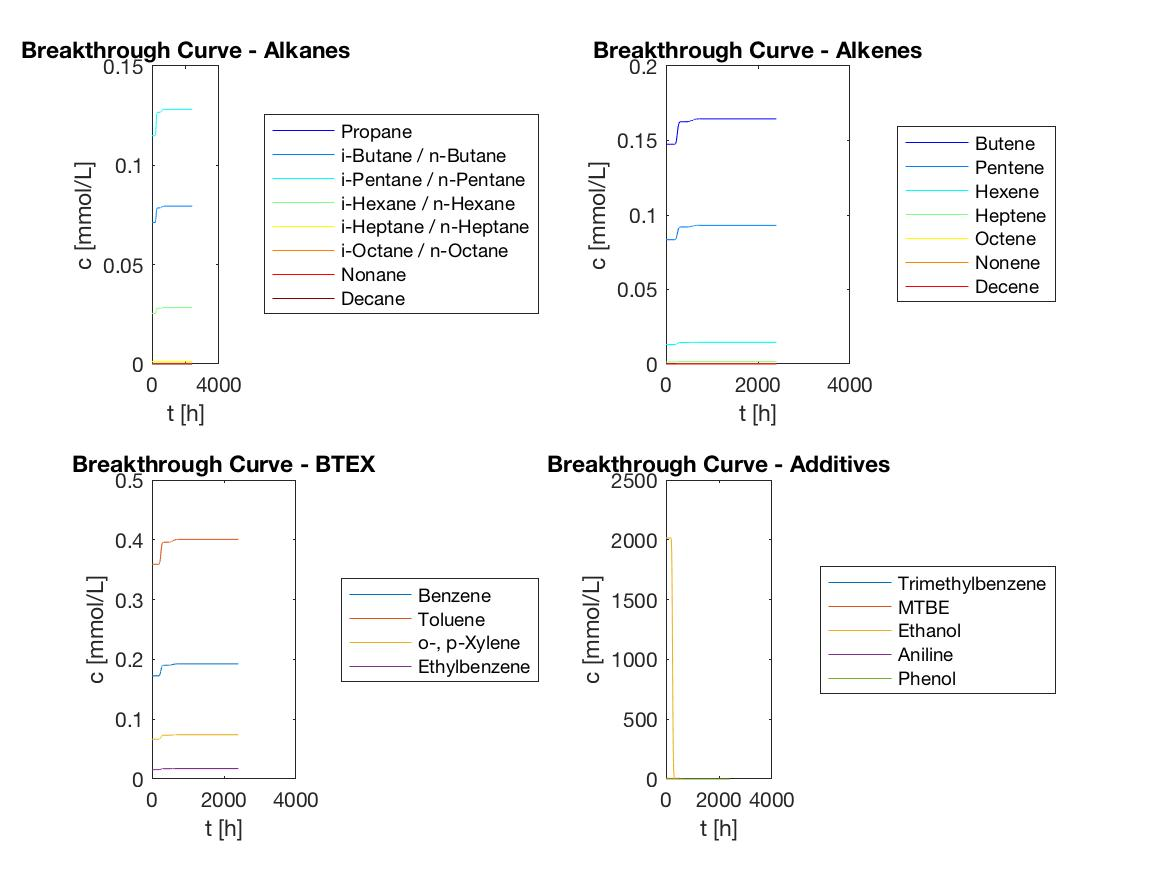
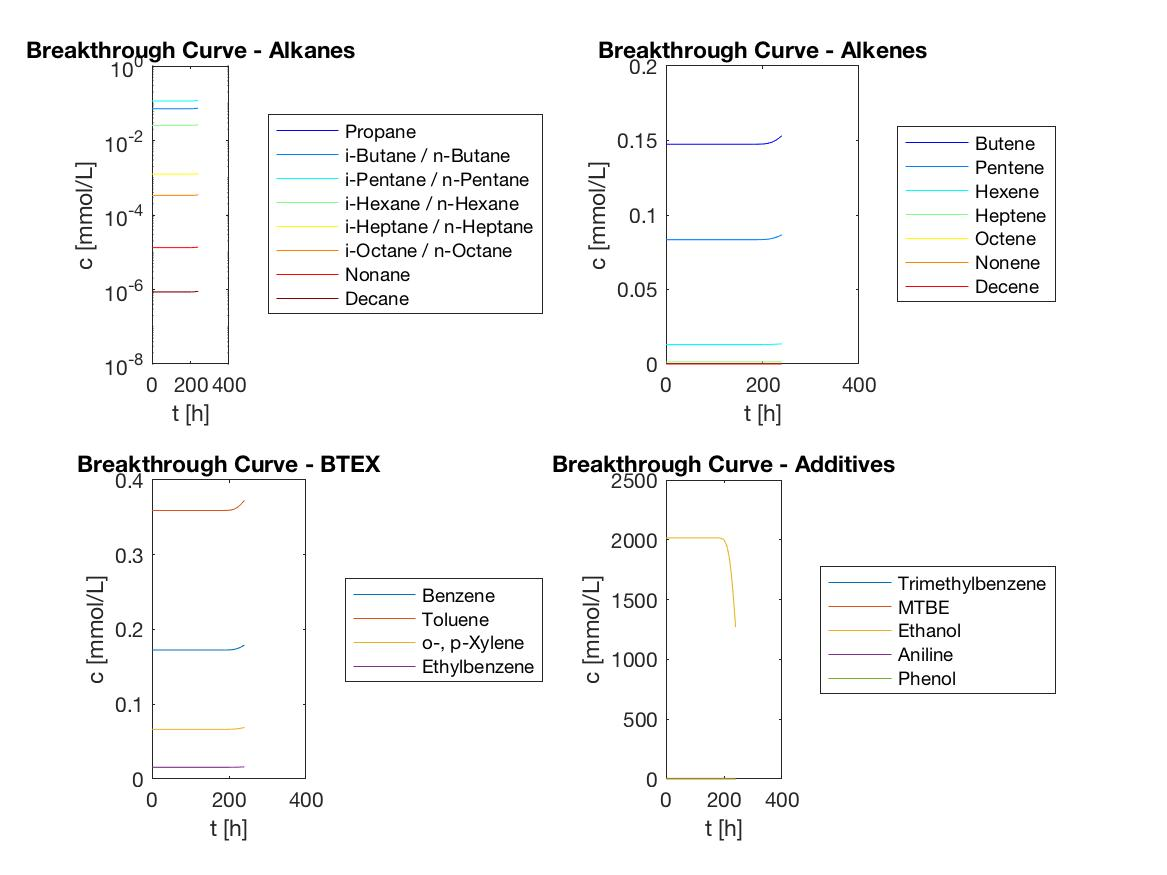
Updates - Oxygen
Readding oxygen to c_aq

Sped up the plotting using counter

diff --git a/BTEX_model.m b/BTEX_model.m
@@ -21,7 +21,7 @@ alpha = 0.01;       % Longitudinal Dispersivity [m]
 Dp = 1e-9;          % pore diffusion coefficient [m2/s] -- assumed
 
 tin = 0;            % begin time [s]
-te = 3600*(1*500);  % end time [s]
+te = 3600*(1*240);  % end time [s]
 
 % Derived Coefficients
 A = H*W;            % area [m2]
@@ -52,14 +52,14 @@ ncomp = 25;
 % Matrix of Initial NAPL moles - Compound
 % Rows related to length coordinates
 % Columns related to components
-n = wt*m_tot./(MW*nx);   % moles of each compound in initial mixture [mol] per cell
-Xo = n./sum(n);          % molar fraction [-]
-n_napl = repmat(n,nx,1); % moles of each compound over whole domain
+n = wt*m_tot./(MW*nx);      % moles of each compound in initial mixture [mol] per cell
+Xo = n./sum(n);             % molar fraction [-]
+n_napl = repmat(n,nx,1);    % moles of each compound over whole domain
 
 % Matrix of Aqueous Concentrations - Compound and Oxygen
 c_aq_i = [Xo.*Si,0];         % initial water conc. at equilibrium  [mol/m3]
-c_aq = repmat(c_aq_i,nx,1);
-c_aq_i = c_aq;
+c_aq = repmat(c_aq_i,nx,1);  % water conc over entire domain
+c_aq_i = c_aq;               % set initial water conc as matrix over domain
 
 % Matrix of Inflow Concentrations - Compound and Oxygen 
 % Columns related to components
@@ -76,6 +76,7 @@ figure(1);clf
 % v = VideoWriter('transport_model.avi');
 % open(v);
 
+ctr=1;
 % =========================================================================
 % Loop over all timepoints
 % =========================================================================
@@ -111,26 +112,27 @@ for t=dt:dt:te
     % =====================================================================
     % EQUILIBRATION
     % =====================================================================
-    [c_aq(:,1:24),n_napl] = equilibrate(c_aq(:,1:24), n_napl, poros, Si, rho, MW, dx , A);
+    [c_aq(:,1:24),n_napl] = equilibrate(c_aq(:,1:24), n_napl, poros, Si, rho, MW, dx, A);
     % =====================================================================
     % GRAPHICAL OUTPUT
     % =====================================================================
    
     % Graphical output every 10 minutes
-    figure(1)
-    plot(x,c_aq./c_aq_i);
-%     semilogy(x,c_aq);
-    xlabel('x [m]');
-    ylabel('c [mmol/L]');
-    %ylim([0 500]);
-    legend('Location', 'eastoutside', compound)
-    title(sprintf('Concentration, t=%6.1fh',t/3600));
-    drawnow
-    
+    if mod(ctr,100)==0
+        figure(1)
+        plot(x,c_aq./c_aq_i);
+    %     semilogy(x,c_aq);
+        xlabel('x [m]');
+        ylabel('c [mmol/L]');
+        %ylim([0 500]);
+        legend('Location', 'eastoutside', compound)
+        title(sprintf('Concentration, t=%6.1fh',t/3600));
+        drawnow
+    end
 %     % Graphical video 
 %         frame = getframe(gcf);
 %         writeVideo(v,frame)
-    
+    ctr=ctr+1;
 end
 
 % % End video 
@@ -141,7 +143,7 @@ set(groot,'defaultAxesColorOrder',co)
 
 figure(3)
 subplot(2,2,1)
-plot([dt:dt:te]/3600,BTC(:,1:8)./c_aq_i)
+semilogy([dt:dt:te]/3600,BTC(:,1:8))
 xlabel('t [h]')
 ylabel('c [mmol/L]')
 legend('Location', 'eastoutside', compound(:,1:8))
@@ -169,7 +171,7 @@ xlabel('t [h]')
 ylabel('c [mmol/L]')
 legend('Location', 'eastoutside', compound(:,20:24))
 title('Breakthrough Curve - Additives')
-
+save('data.mat');
 saveas(gcf, 'Breakthrough Curve.jpeg')
 
 
